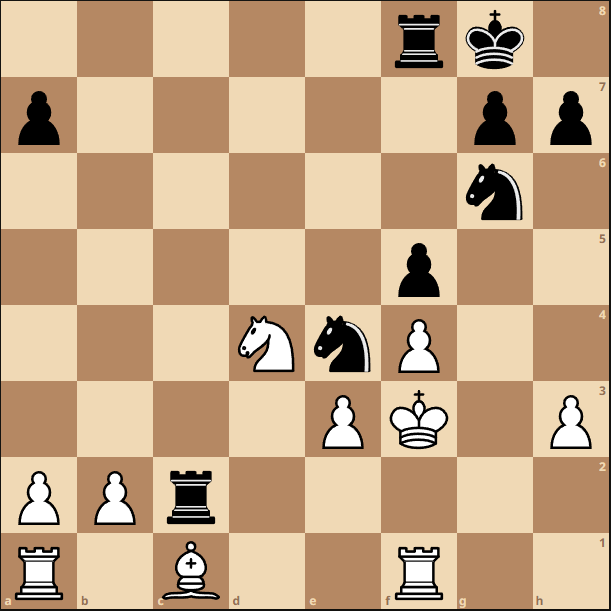
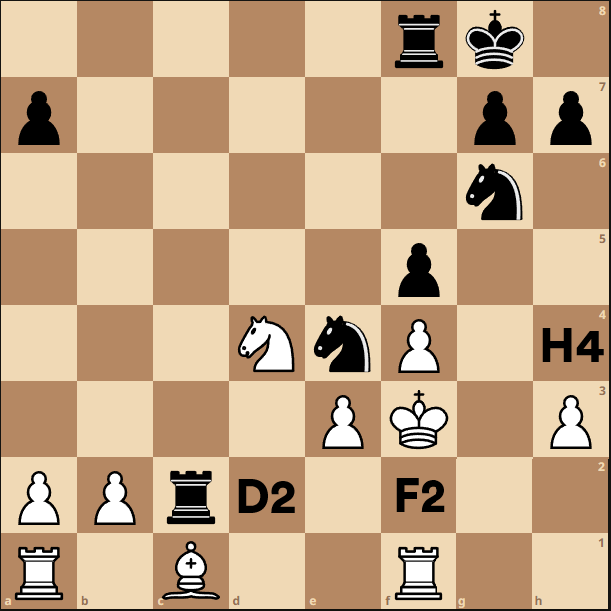
New Version

diff --git a/startquiz.html b/startquiz.html
@@ -16,17 +16,32 @@
       <div class="swiper-wrapper">
         <div class="swiper-slide">
           <h1 class="swiper-title">Question 1</h1>
-          <p class="swiper-subtitle">Your current position is: </p>
+          <p class="swiper-subtitle">Your POV is: Black side; Which move causes Checkmate</p>
+          <ul class="swiper-answers">
+            <li><p>A: Knight to position H4</p></li>
+            <li><p>B: Rook to position F2</p></li>
+            <li><p>C: Knight to position D2</p></li>
+          </ul>
           <img class="boardstate-img" src="assets/images/boardstate_1.PNG">
         </div>
         <div class="swiper-slide">
           <h1 class="swiper-title">Question 2</h1>
-          <p class="swiper-subtitle">Your current position is: </p>
+          <p class="swiper-subtitle">Your POV is: White side;  Which move causes Checkmate</p>
+          <ul class="swiper-answers">
+            <li><p>A: Knight to position G7</p></li>
+            <li><p>B: Queen to position F7</p></li>
+            <li><p>C: Queen to position E6</p></li>
+          </ul>
           <img class="boardstate-img" src="assets/images/boardstate_2.PNG">
         </div>
         <div class="swiper-slide">
           <h1 class="swiper-title">Question 3</h1>
-          <p class="swiper-subtitle">Your current position is: </p>
+          <p class="swiper-subtitle">Your POV is: White side;  Which move causes Checkmate</p>
+          <ul class="swiper-answers">
+            <li><p>A: Queen to position E8</p></li>
+            <li><p>B: Queen to position B8</p></li>
+            <li><p>C: Rook to position G5</p></li>
+          </ul>
           <img class="boardstate-img" src="assets/images/boardstate_3.PNG">
         </div>
       </div>

diff --git a/css/style.css b/css/style.css
@@ -74,7 +74,7 @@ p {
 }
 
 .swiper-slide .boardstate-img {
-  max-width: 100%;
+  width: 100%;
 }
 
 .swiper .swiper-title {
@@ -85,8 +85,9 @@ p {
   margin: 0 0 20px 0;
 }
 
-@media only screen and (max-width: 600px) {
-  body {
-    padding: 20px;
-  }
+.swiper .swiper-answers {
+  background-color: black;
+  padding: 20px;
+  border-radius: 20px;
+  list-style: none;
 }
